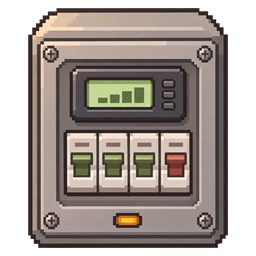
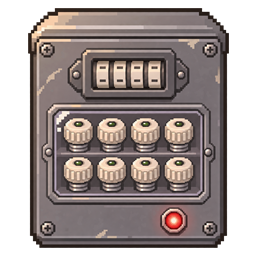
Grafikk til sikringsboksene og dokumentmappa
- Fire sikringsbokser med eget bilde; vanlig og smart viser av-bildet når boden er uten strøm
- Dokumentmappa: eget bilde, og vinduet har den åpne mappa som bakgrunn med fargede faner over
- Fjernet hjelpeteksten under dokumentmappa

diff --git a/shared/products.ts b/shared/products.ts
@@ -167,6 +167,7 @@ export interface Electric {
   blurb: string;
   max?: number; // hvor mange man kan eie
   fusebox?: FuseboxKind; // sikringsbokser: hva slags sikringer den har
+  imageOff?: string; // bilde når boden er uten strøm (grenuttaket av eller hovedsikringen gått)
   dealerOnly?: boolean; // selges ikke hos Klas Olsen – bare hos Fyren bak containeren
 }
 
@@ -485,6 +486,7 @@ export const FUSEBOX: Electric = {
   price: 449,
   size: { w: 2, h: 2 },
   blurb: 'En skrusikring for hvert apparat, og en måler som viser hvor mye strøm boden har brukt.',
+  imageOff: '/art/elektro/sikringsboks-av.png',
   max: 1,
   fusebox: 'screw',
 };
@@ -493,7 +495,7 @@ export const FUSEBOX_AUTO: Electric = {
   id: 'sikringsboks_automat',
   name: 'Sikringsboks med automatsikringer',
   emoji: '🎛',
-  image: '/art/elektro/sikringsboks.png',
+  image: '/art/elektro/sikringsboks-automat.png',
   price: 1499,
   size: { w: 2, h: 2 },
   blurb: 'Går en sikring, vipper du den bare opp igjen. Ingen skrusikringer å kjøpe.',
@@ -505,7 +507,8 @@ export const FUSEBOX_SMART: Electric = {
   id: 'sikringsboks_smart',
   name: 'Smart sikringsboks',
   emoji: '🎛',
-  image: '/art/elektro/sikringsboks.png',
+  image: '/art/elektro/sikringsboks-smart.png',
+  imageOff: '/art/elektro/sikringsboks-smart-av.png',
   price: 2499,
   size: { w: 2, h: 2 },
   blurb: 'Automatsikringer som slår seg på igjen av seg selv når strømmen er tilbake.',
@@ -518,7 +521,7 @@ export const FUSEBOX_BYPASS: Electric = {
   id: 'sikringsboks_bypass',
   name: 'Sikringsboks, forbikoblet',
   emoji: '🎛',
-  image: '/art/elektro/sikringsboks.png',
+  image: '/art/elektro/sikringsboks-bypass.png',
   price: 700,
   size: { w: 2, h: 2 },
   blurb: 'Koblet forbi både sikringene og måleren. Gratis strøm, ingenting ryker – helt til Tilsynsmannen ser den.',
@@ -768,7 +771,7 @@ export const CONTAINERS: Container[] = [
   { kind: 'container', id: 'safe_stor', name: 'Safe, stor', emoji: '🗄', image: '/art/safe-stor.png', imageOpen: '/art/safe-stor-apen.png', price: 1499, size: { w: 3, h: 4 }, inner: { cols: 6, rows: 6 }, safe: true },
   { kind: 'container', id: 'plastkasse', name: 'Plastkasse med lokk', emoji: '🗃', image: '/art/plastboks.png', price: 149, size: { w: 4, h: 4 }, inner: { cols: 6, rows: 8 } },
   // Dokumentmappa: bare papirer. Fire faner du kan gi navn, 5×5 i hver (inner er fanene stablet: 5×20).
-  { kind: 'container', id: 'dokumentmappe', name: 'Dokumentmappe', emoji: '🗂', price: 129, size: { w: 2, h: 3 }, inner: { cols: 5, rows: 20 }, docFolder: { tabs: 4, tabGrid: { cols: 5, rows: 5 } } },
+  { kind: 'container', id: 'dokumentmappe', name: 'Dokumentmappe', emoji: '🗂', image: '/art/verktoy/dokumentmappe.png', price: 129, size: { w: 2, h: 3 }, inner: { cols: 5, rows: 20 }, docFolder: { tabs: 4, tabGrid: { cols: 5, rows: 5 } } },
   // Ryggsekken bæres på ryggen og rommer like mye som en pappkartong.
   { kind: 'container', id: 'ryggsekk', name: 'Ryggsekk', emoji: '🎒', image: '/art/ryggsekk.png', price: 249, size: { w: 3, h: 3 }, inner: { cols: 4, rows: 6 }, backpack: true },
   // Bilene (shared/car.ts): bagasjerommet er rutenettet inni. Kjøpes i Bilbutikken, ikke hos Klas Olsen.

diff --git a/client/style.css b/client/style.css
@@ -1374,11 +1374,19 @@ body.night .table-front::after { background: rgba(20, 30, 90, 0.28); }
 .trunk { position: absolute; z-index: 1; pointer-events: auto; }
 /* Dokumentmappa */
 .doc-folder { background: #4a3a26; border-color: #8a6a40; }
-.folder-tabs { display: flex; gap: 0.2cqw; margin: 0.2cqw 0 -0.1cqw; }
-.folder-tab { flex: 1; min-width: 0; font-size: max(9px, 0.7cqw); padding: 0.15cqw 0.3cqw; border-radius: 0.4cqw 0.4cqw 0 0; background: #6b5434; color: #f5e6c8; border: 0; box-shadow: none; white-space: nowrap; overflow: hidden; text-overflow: ellipsis; }
-.folder-tab.on { background: #e9dcc0; color: #3a2a14; font-weight: 700; }
+/* Bildet av den åpne mappa (640×768): fanene ligger i y 100–137 og x 34–606, kremarket i x 40–598 og y 137–732. */
+.folder-sheet { position: relative; aspect-ratio: 640 / 768; background: url('/art/verktoy/dokumentmappe-apen.png') center / 100% 100% no-repeat; image-rendering: pixelated; margin-top: 0.3cqw; }
+/* Fanene over mappa, i samme farger som de tegnede fanene (rød, blå, grønn, gul). */
+.folder-tabs { display: flex; gap: 0.2cqw; margin-top: 0.3cqw; }
+.folder-tab { flex: 1; min-width: 0; font-size: max(9px, 0.65cqw); line-height: 1.1; padding: 0.2cqw 0.25cqw; border: 0; border-radius: 0.35cqw 0.35cqw 0 0; box-shadow: none; color: #fff; white-space: nowrap; overflow: hidden; text-overflow: ellipsis; opacity: 0.6; }
+.folder-tab:nth-child(1) { background: #b8423a; }
+.folder-tab:nth-child(2) { background: #4a7bb7; }
+.folder-tab:nth-child(3) { background: #6b9a55; }
+.folder-tab:nth-child(4) { background: #d4a72c; color: #2a1d0c; }
+.folder-tab.on { opacity: 1; font-weight: 700; transform: translateY(0.1cqw); }
+.folder-tab:hover { opacity: 0.9; }
 .folder-tab small { opacity: 0.7; }
-.folder-grid { background-color: rgba(233, 220, 192, 0.92); }
+.folder-sheet .folder-grid { position: absolute; left: 6.25%; top: 20.2%; width: 87.2%; height: 72.7%; background-color: transparent; }
 /* Automatsikringer */
 .breakers { list-style: none; margin: 0.4cqw 0 0; padding: 0; display: grid; gap: 0.3cqw; }
 .breaker { display: grid; grid-template-columns: 1fr auto; align-items: center; gap: 0 0.5cqw; font-size: 0.85cqw; padding: 0.2cqw 0.3cqw; border-radius: 0.3cqw; background: rgba(255, 255, 255, 0.05); }

diff --git a/client/main.ts b/client/main.ts
@@ -877,7 +877,10 @@ function gridItemView(i: Item, cols: number, rows: number): string {
   if (i.coupon) title += `: ${i.coupon.pct} % på ${ITEM_TYPES[i.coupon.productId].name.toLowerCase()} (${STORE_BY_ID[i.coupon.store].name}, ${dayRange(i.coupon.from, i.coupon.to)})`;
   if (i.giftcard) title += `: ${kr(i.giftcard.value)}`;
   if (i.label && PRODUCT_BY_ID[i.typeId]) title += ` (${labelText(i.typeId, i.label, myStall(state!)?.name ?? '')})`;
-  return `<div class="gitem ${t.image ? 'has-img' : ''} ${i.label === 'forged' ? 'forged' : ''}" style="${style}" data-drag="${i.id}" title="${esc(title)}">${sprite(t)}</div>`;
+  const power = myStall(state!)?.power;
+  const off = (ITEM_TYPES[i.typeId] as { imageOff?: string }).imageOff;
+  const dark = !!off && (!power?.on || power.blown);
+  return `<div class="gitem ${t.image ? 'has-img' : ''} ${i.label === 'forged' ? 'forged' : ''}" style="${style}" data-drag="${i.id}" title="${esc(title)}">${sprite(dark ? { emoji: t.emoji, image: off } : t)}</div>`;
 }
 
 function storageView(s: GameState): string {
@@ -1055,9 +1058,10 @@ function docFolderPanel(s: GameState, box: Item, n: number): string {
   return `
   <div class="box-panel doc-folder" data-panel="${key}" style="left:${pos.x}%;top:${pos.y}%;z-index:${20 + n}">
     <div class="box-head" data-panel-head title="Dra for å flytte"><span>${icon(t)} ${esc(t.name)}</span><button class="small ghost" data-action="close-box" data-panel-key="${key}" aria-label="Lukk">✕</button></div>
-    <div class="folder-tabs">${tabs}</div>
-    <div class="grid box-grid folder-grid" data-grid="box" data-box="${box.id}" data-yoff="${off}" style="width:${cols * BOX_CELL}cqw;height:${rows * BOX_CELL}cqw;--cols:${cols};--rows:${rows}">${items}</div>
-    <div class="meter-sub muted">Bare papirer: dokumenter, lapper, oppskrifter, utklipp, kuponger og aviser.</div>
+    <div class="folder-tabs" style="width:${(cols * BOX_CELL) / 0.872}cqw">${tabs}</div>
+    <div class="folder-sheet" style="width:${(cols * BOX_CELL) / 0.872}cqw">
+      <div class="grid box-grid folder-grid" data-grid="box" data-box="${box.id}" data-yoff="${off}" style="--cols:${cols};--rows:${rows}">${items}</div>
+    </div>
   </div>`;
 }
 

diff --git a/GRAFIKK.md b/GRAFIKK.md
@@ -827,9 +827,36 @@ Klar til innlegging i filene under; spillfiler, kode og klikkfelt er ikke endret
 | `art/devices/alarm-pa.png` | 1536×1024 | Samme alarm, plassert identisk, med blinklyset tent rødt og en svak rød glød rundt (det er dette tyven ser). |
 | `art/devices/ikon-alarm.png` | 128×128 | Ikon til Klas Olsen og grenuttaket: alarmboksen med det røde lyset tent. |
 
-### Bestilt: sikringsbokser og dokumentmappe
+### Ferdig laget: sikringsbokser og dokumentmappe
 
-I spillet bruker de tre nye sikringsboksene i dag samme bilde som den vanlige, og dokumentmappa vises med 🗂. Den vanlige og den smarte skal ha **to bilder hver: på og av** (av = grenuttaket er slått av eller hovedsikringen har gått), med samme beskjæring. Samme pikselstil som elektro og verktøy, uten lesbar tekst.
+**✅ Alle åtte PNG-originaler er ferdige i `GFX_assets/ChatGPT`:**
+`sikringsboks.png`, `sikringsboks-av.png`, `sikringsboks-smart.png`,
+`sikringsboks-smart-av.png`, `sikringsboks-automat.png`, `sikringsboks-bypass.png`,
+`dokumentmappe.png` og `dokumentmappe-apen.png`.
+Samme nøytrale pikselstil som elektro og verktøy, med mørke konturer, få materialtoner,
+rette hovedakser etter gridet og uten lesbar tekst, tall eller julepynt.
+
+Alle seks sikringsboksbilder er **1254×1254 px / 2×2**. Den vanlige er en gammel
+grå metallboks med åtte porselenssikringer i to rader og mekanisk måler med uleselige
+tallhjulmerker. `sikringsboks.png` er på med rød lampe; av-varianten har mørk lampe.
+Den smarte boksen er hvit med fire svarte vippebrytere, mørkt display av og grønt
+display med enkle statusblokker på. Av/på-parene har samme lerret og plassering.
+Automatboksen er ren grå med en rad åtte svarte vippebrytere. Bypassboksen har
+slitt grått kabinett, skjevt lukket deksel, tape og tykk kobberfarget ledning langs utsiden.
+Den forrige sikringsboksoriginalen er bevart som `sikringsboks-forrige.png`.
+
+Lukket dokumentmappe er **1024×1536 px / 2×3**, brun med strikk og fire tomme faner:
+rød, blå, grønn og gul fra venstre. Åpen mappe er **1280×1536 px / 5:6**, sett rett
+ovenfra, med samme fanefarger og et stort kremhvitt innerfelt med svake rutelinjer.
+Ingen navn eller innhold er tegnet inn; spillet legger dette over bakgrunnen.
+Originalen før formattilpasning er bevart som `dokumentmappe-apen-original.png`.
+
+Alle åtte er kontrollert for transparent ytterområde og hele silhuetter, samt på mørk
+bakgrunn og i nedskalert oversikt med 128 px visningsfelt på lys bakgrunn.
+Oversikter: `sikringsbokser-mappe-oversikt.jpg` og `sikringsbokser-mappe-liten.jpg`.
+Prompter fra bildegeneratoren: `sikringsbokser-mappe-prompter.json`.
+Kontrolldata: `sikringsbokser-mappe-kontroll.json`. Klar til innlegging med
+nearest-neighbor-skalering; spillfiler og kode er ikke endret i denne leveransen.
 
 | Fil i spillet | Størrelse | Motiv |
 |---|---|---|
@@ -844,7 +871,7 @@ I spillet bruker de tre nye sikringsboksene i dag samme bilde som den vanlige, o
 
 | Hva | Størrelse | Mappe / fil i spillet |
 |---|---|---|
-| Ny vanlig og smart sikringsboks (av + på), automat- og forbikoblet boks, dokumentmappe (lukket + åpen) | se «Bestilt: sikringsbokser og dokumentmappe» | ⏳ Bestilt (samme bilde / emoji til de er klare) |
+| Ny vanlig og smart sikringsboks (av + på), automat- og forbikoblet boks, dokumentmappe (lukket + åpen) | se «Ferdig laget: sikringsbokser og dokumentmappe» | ✅ i bruk: `art/elektro/sikringsboks{,-av,-smart,-smart-av,-automat,-bypass}.png` (2×2, av-bildet når boden er uten strøm), `art/verktoy/dokumentmappe.png` (2×3) og `dokumentmappe-apen.png` (640×768, bakgrunn i vinduet; fanenavnene står på fargede knapper over) |
 | Alarmsystem på boden (av + på) og butikkikon | se «Ferdig laget: alarmsystem» | ✅ i bruk: `art/devices/alarm-{av,pa}.png` (lag over boden) og `art/devices/ikon-alarm.png` |
 | Fire kjøretøy (inkludert elektrisk varebil, lukket + åpent bagasjerom), ryggsekk og app-ikon til Bilbutikken | se «Ferdig laget: bilene, ryggsekken og Bilbutikken (steg 6)» | ✅ i bruk: `art/biler/bil-{tennis,toforr,highass,fuzz}{,-apen}.png` (384×288, felles beskjæring så størrelsen mellom bilene stemmer), `art/ryggsekk.png` (3×3), `art/telefon/app-bilbutikken.png` |
 | Såpestykke, såpeavtrykk, blank nøkkel, kopinøkkel og nøkkelmaskin | se «Ferdig laget: såpe og nøkler (snoking)» | ✅ i bruk: `art/verktoy/{sapestykke,sapeavtrykk,blank-nokkel,kopinokkel}.png` (1×1), `art/verktoy/nokkelmaskin.png` (2×2) |
